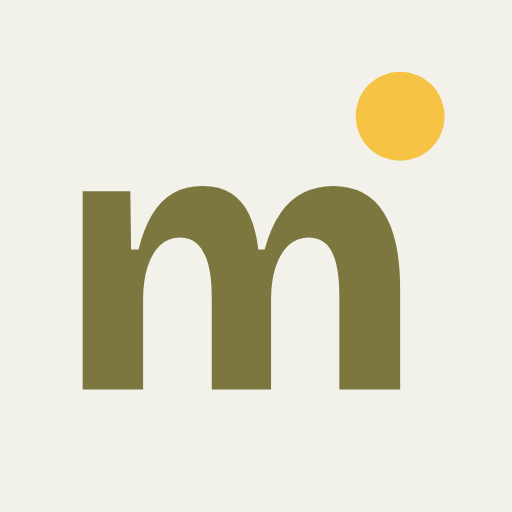
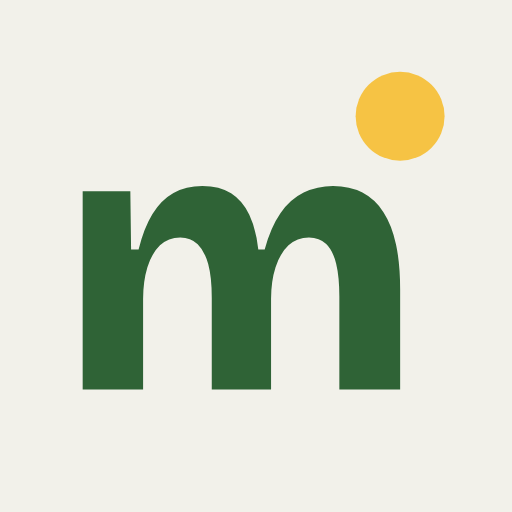
Adopta el verde bosque en la app y sus íconos

Changed region(s): [[0.1562, 0.3438, 0.7812, 0.7812]]

diff --git a/frontend/src/index.css b/frontend/src/index.css
@@ -19,15 +19,15 @@
 /* Tokens de la guía de estilo (docs/diseno/guia-de-estilo.md) */
 :root {
   color-scheme: light;
-  /* Papel salvia, tinta negra; el oliva queda para el logo y el amarillo marca "ahora" */
+  /* Papel salvia, tinta negra; el verde bosque queda para el logo y el amarillo marca "ahora" */
   --bg: #F2F1EA; --surface: #FBFAF5; --surface-2: #E8E6DA; --surface-3: #DEDBCB;
-  --ink: #040200; --muted: #5E5A2E; --muted-2: #6B6850;
-  --text-secondary: #5E5A2E; --control-border: #857F62;
+  --ink: #040200; --muted: #3F5E3A; --muted-2: #4E6A4C;
+  --text-secondary: #3F5E3A; --control-border: #6B8066;
   --primary: #040200; --on-primary: #F2F1EA; --primary-soft: #E8E6DA; --primary-hover: #2A2820;
-  --brand: #7C773F;
+  --brand: #2F6336;
   --accent: #F6C344; --on-accent: #3A2A00; --accent-soft: #FBEBB8; --on-accent-soft: #5C4300;
-  --line: #E2E0D3; --line-soft: #ECEAE0; --border: #D9D6C8; --control: #857F62;
-  --ok: #2F6B45; --warn: #A9431B; --warn-soft: #F8E6DB; --miga-empty: #857F62;
+  --line: #E2E0D3; --line-soft: #ECEAE0; --border: #D9D6C8; --control: #6B8066;
+  --ok: #2F6B45; --warn: #A9431B; --warn-soft: #F8E6DB; --miga-empty: #6B8066;
   --g-prot: #C8553D; --g-cer: #9A7420; --g-frut: #B04A72;
   --g-lac: #3F7FB5; --g-gras: #6F63B8; --g-verd: #2E8B6E;
   --g-turq: #368C91; --g-tierra: #95715D; --g-indigo: #6675A0; --g-coral: #AD5860;

diff --git a/docs/diseno/prototipo-v3.html b/docs/diseno/prototipo-v3.html
@@ -11,9 +11,9 @@
 /* Layout: la app entera dentro de un teléfono navegable; al costado, las decisiones de diseño de la pantalla abierta. En celular la app ocupa la página. */
 :root {
   --bg: #F2F1EA; --surface: #FBFAF5; --surface-2: #E8E6DA; --surface-3: #DEDBCB;
-  --ink: #040200; --muted: #5E5A2E; --line: #E2E0D3; --control: #857F62;
+  --ink: #040200; --muted: #3F5E3A; --line: #E2E0D3; --control: #6B8066;
   --accent: #F6C344; --on-accent: #3A2A00; --accent-soft: #FBEBB8; --on-accent-soft: #5C4300;
-  --ok: #2F6B45; --warn: #A9431B; --warn-soft: #F8E6DB; --miga-empty: #857F62;
+  --ok: #2F6B45; --warn: #A9431B; --warn-soft: #F8E6DB; --miga-empty: #6B8066;
   --g-prot: #C8553D; --g-cer: #9A7420; --g-frut: #B04A72; --g-gras: #6F63B8; --g-verd: #2E8B6E;
   --nav-glass: rgba(251, 250, 245, 0.88); --scrim: rgba(4, 2, 0, 0.32);
   --shadow-card: 0 1px 2px rgba(40, 38, 20, 0.06), 0 6px 18px -6px rgba(40, 38, 20, 0.12);

diff --git a/frontend/index.html b/frontend/index.html
@@ -3,9 +3,9 @@
   <head>
     <meta charset="UTF-8" />
     <link rel="preload" href="/src/assets/fonts/onest-latin-wght-normal.woff2" as="font" type="font/woff2" crossorigin />
-    <link rel="icon" type="image/svg+xml" href="/favicon.svg?v=brand-light-v1" />
-    <link rel="apple-touch-icon" href="/apple-touch-icon.png?v=brand-light-v1" sizes="180x180" />
-    <link rel="manifest" href="/manifest.webmanifest?v=brand-light-v1" />
+    <link rel="icon" type="image/svg+xml" href="/favicon.svg?v=brand-forest-v1" />
+    <link rel="apple-touch-icon" href="/apple-touch-icon.png?v=brand-forest-v1" sizes="180x180" />
+    <link rel="manifest" href="/manifest.webmanifest?v=brand-forest-v1" />
     <!-- Al agregarla al inicio del celular se abre como app (pantalla completa) con nombre "Miga" -->
     <meta name="apple-mobile-web-app-title" content="Miga" />
     <meta name="apple-mobile-web-app-capable" content="yes" />

diff --git a/docs/diseno/guia-de-estilo.md b/docs/diseno/guia-de-estilo.md
@@ -1,6 +1,6 @@
 # Guía de estilo — Miga
 
-Estilo: **natural, cercano y de calidad**. Papel salvia, tinta negra, oliva para el logo y el
+Estilo: **natural, cercano y de calidad**. Papel salvia, tinta negra, verde bosque para el logo y el
 amarillo del punto de la i para marcar dónde estás. Funciona en modo claro y oscuro.
 
 ## Principios
@@ -52,19 +52,19 @@ Se definen como variables CSS en `frontend/src/index.css`. Nunca usar hex suelto
 | `--surface` | Tarjetas, listas, hojas | `#FBFAF5` | `#1C1C1C` |
 | `--surface-2` / `--surface-3` | Banda de selección, chips, controles segmentados / su hover | `#E8E6DA` / `#DEDBCB` | `#262626` / `#303030` |
 | `--ink` | Texto principal y migas de la semana | `#040200` | `#F3EFE6` |
-| `--muted` / `--text-secondary` | Texto secundario | `#5E5A2E` | `#ADA89D` |
+| `--muted` / `--text-secondary` | Texto secundario | `#3F5E3A` | `#ADA89D` |
 | `--primary` / `--on-primary` | Acción principal | `#040200` / `#F2F1EA` | `#F3EFE6` / `#121212` |
-| `--brand` | Logo | `#7C773F` | `#F3EFE6` |
+| `--brand` | Logo | `#2F6336` | `#F3EFE6` |
 | `--accent` / `--on-accent` | «Sigue», «Hoy», punto del logo | `#F6C344` / `#3A2A00` | igual |
 | `--line` | Divisores | `#E2E0D3` | `#2C2C2C` |
-| `--control-border` / `--miga-empty` | Bordes de campos y migas vacías (3:1) | `#857F62` | `#8A867C` |
+| `--control-border` / `--miga-empty` | Bordes de campos y migas vacías (3:1) | `#6B8066` | `#8A867C` |
 | `--ok` | "Como el plan" | `#2F6B45` | `#7CC79A` |
 | `--warn` / `--warn-soft` | Faltantes y excesos | `#A9431B` / `#F8E6DB` | `#F4A57E` / `#38271F` |
 | `--error` / `--error-bg` | Errores | `#B42318` / `#FDEDEB` | `#F97066` / `#3A1C1A` |
 
 - **El oscuro es neutro:** grises casi negros, sin verde. La elevación se marca con grises más claros, no con color.
 - **El amarillo nunca es color de texto** y siempre acompaña a una palabra («Sigue», «Hoy»). Lleva `--on-accent` encima, nunca blanco.
-- **Se evita juntar naranja y verde.** El oliva queda solo para el logo.
+- **Se evita juntar naranja y verde.** El verde bosque queda solo para el logo.
 - Contrastes verificados: texto ≥ 4,5:1 y migas, bordes de control e indicadores ≥ 3:1, en ambos temas.
 
 ### Grupos de alimentos
